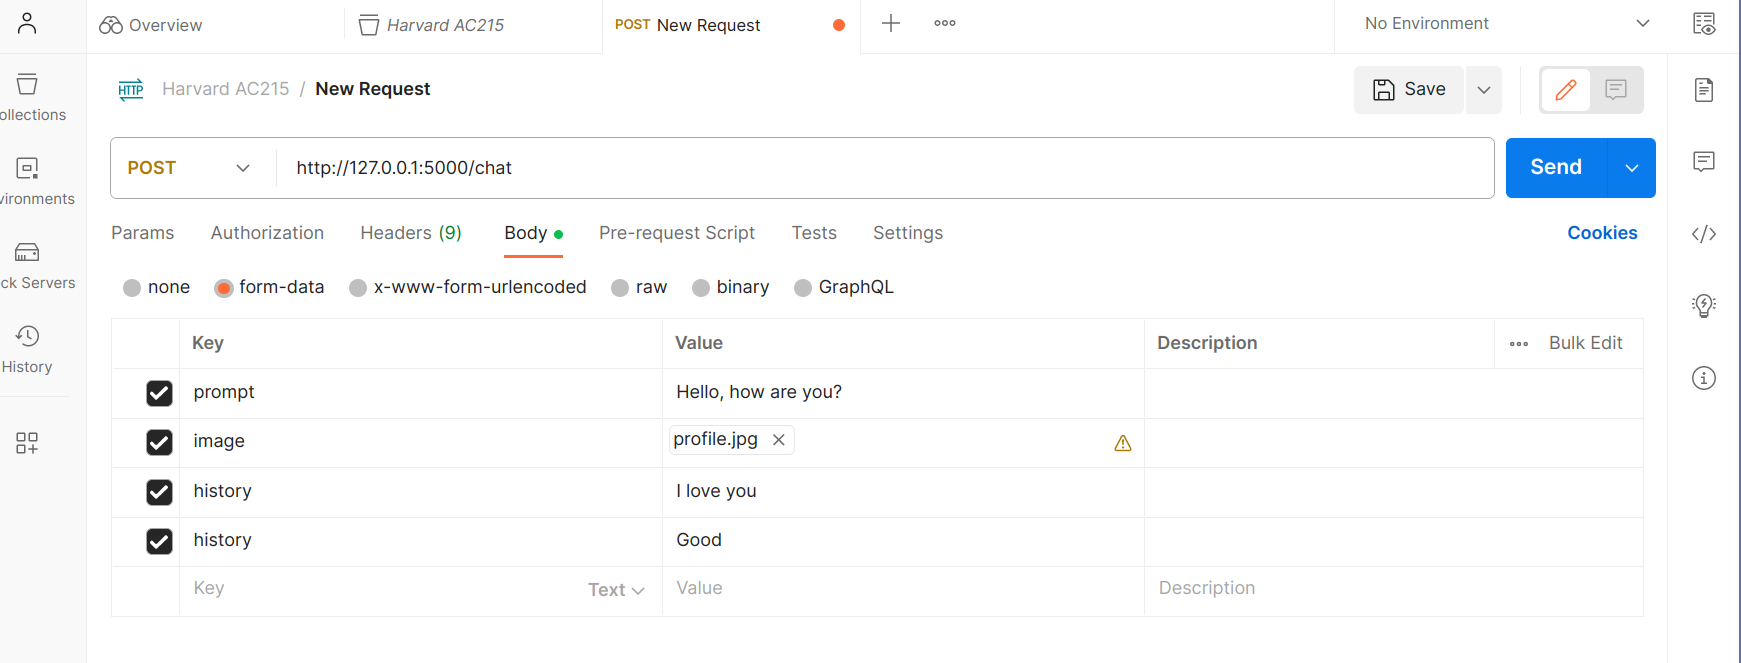
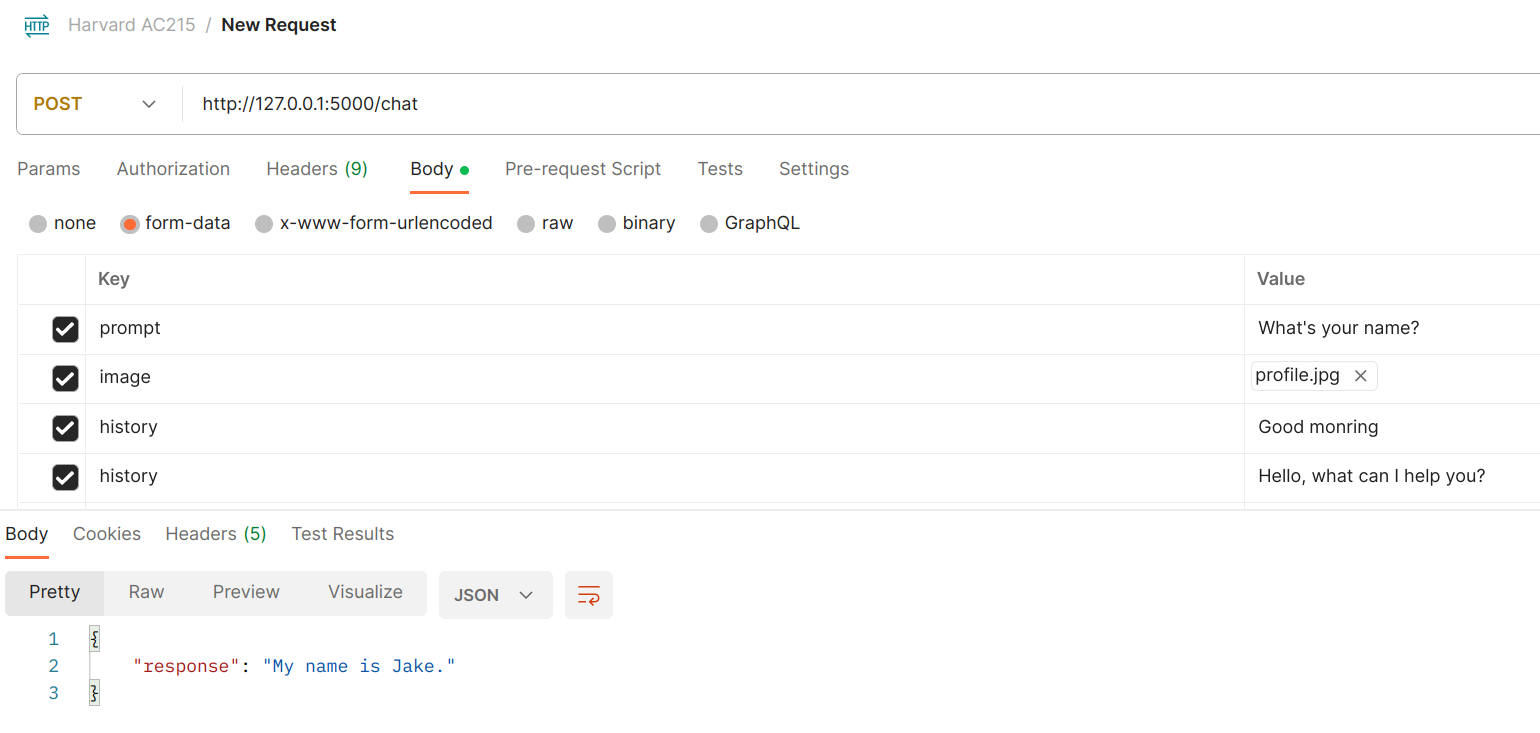
add history

diff --git a/src/api-service/api/model_backend.py b/src/api-service/api/model_backend.py
@@ -1,8 +1,15 @@
+from pathlib import Path
+
 from flask import Flask, request, jsonify
 from flasgger import Swagger, SwaggerView, Schema, fields
 from io import BytesIO
 import torch
 import requests
+pwd = Path(__file__).parent.resolve()
+import sys, os
+sys.path.insert(0, "LLaVA")
+# print(sys.path)
+# print(os.environ.get("PYTHONPATH"))
 from llava.constants import IMAGE_TOKEN_INDEX, DEFAULT_IMAGE_TOKEN, DEFAULT_IM_START_TOKEN, DEFAULT_IM_END_TOKEN
 from llava.conversation import conv_templates, SeparatorStyle
 from llava.model.builder import load_pretrained_model
@@ -13,15 +20,6 @@ from PIL import Image
 
 # Load pre-trained model and tokenizer
 disable_torch_init()
-model_path = "liuhaotian/llava-v1.5-7b"
-model_name = get_model_name_from_path(model_path)
-tokenizer, model, image_processor, context_len = load_pretrained_model(
-        model_path, 
-        model_name=model_name, 
-        model_base=None, 
-        load_8bit=False, 
-        load_4bit=True
-)
 
 class Prompt(Schema):
     prompt = fields.Str(required=True)
@@ -44,31 +42,42 @@ class ChatView(SwaggerView):
         # Extract text data from form-data
         qs = request.form.get("prompt")
         temperature = float(request.form.get("temperature", 1.0))
-        print(request.form)
-        # history = request.form.getlist("history")
-        # print("Provided history: ", history)
+
+        conv_mode = "llava_v0"
+        conv = conv_templates[conv_mode].copy()
+        # Check if history is provided and process it
+        if 'history' in request.form:
+            history = request.form.getlist("history")
+            assert len(history) % 2 == 0, "History must be a list of alternating user and assistants messages"
+            print("Provided history: ", history)
+            # # assume first history always starts with user
+            for i in range(0, len(history), 2):
+                conv.append_message(conv.roles[0], history[i])
+                conv.append_message(conv.roles[1], history[i + 1])
+            # for prompt in history:
+            #     role, sentence = prompt.strip(')()').split(', ')
+            #     conv.append_message(role, sentence)
 
         # Check if an image is provided and process it
-        cur_prompt = qs
+        # cur_prompt = qs
         if 'image' in request.files:
             image_file = request.files['image']
-            response = requests.get(image_file)
-            image = Image.open(BytesIO(response.content)).convert('RGB')
+            # response = requests.get(image_file)
+            # image = Image.open(BytesIO(response.content)).convert('RGB')
+            image = Image.open(BytesIO(image_file.read()))
             image_tensor = image_processor.preprocess(image, return_tensors='pt')['pixel_values'][0]
             images = image_tensor.unsqueeze(0).half().cuda()
             if getattr(model.config, 'mm_use_im_start_end', False):
                 qs = DEFAULT_IM_START_TOKEN + DEFAULT_IMAGE_TOKEN + DEFAULT_IM_END_TOKEN + '\n' + qs
             else:
                 qs = DEFAULT_IMAGE_TOKEN + '\n' + qs
-            cur_prompt = '<image>' + '\n' + cur_prompt
         else:
             images = None
 
-        conv_mode = "llava_v0"
-        conv = conv_templates[conv_mode].copy()
         conv.append_message(conv.roles[0], qs)
         conv.append_message(conv.roles[1], None)
         prompt = conv.get_prompt()
+        print(prompt)
 
         input_ids = tokenizer_image_token(prompt, tokenizer, IMAGE_TOKEN_INDEX, return_tensors='pt').unsqueeze(0).cuda()
 
@@ -111,4 +120,16 @@ app.add_url_rule('/chat', view_func=ChatView.as_view('chat'), methods=['POST'])
 
 # Run the Flask app
 if __name__ == '__main__':
-    app.run(debug=True)
+
+    model_path = "cnut1648/llava-v1.5-7b"
+    model_name = get_model_name_from_path(model_path)  # "llava-v1.5-7b"
+    tokenizer, model, image_processor, context_len = load_pretrained_model(
+        model_path,
+        model_name=model_name,
+        model_base=None,
+        load_8bit=False,
+        load_4bit=True,
+        device_map="auto",
+    )
+
+    app.run(debug=False)
